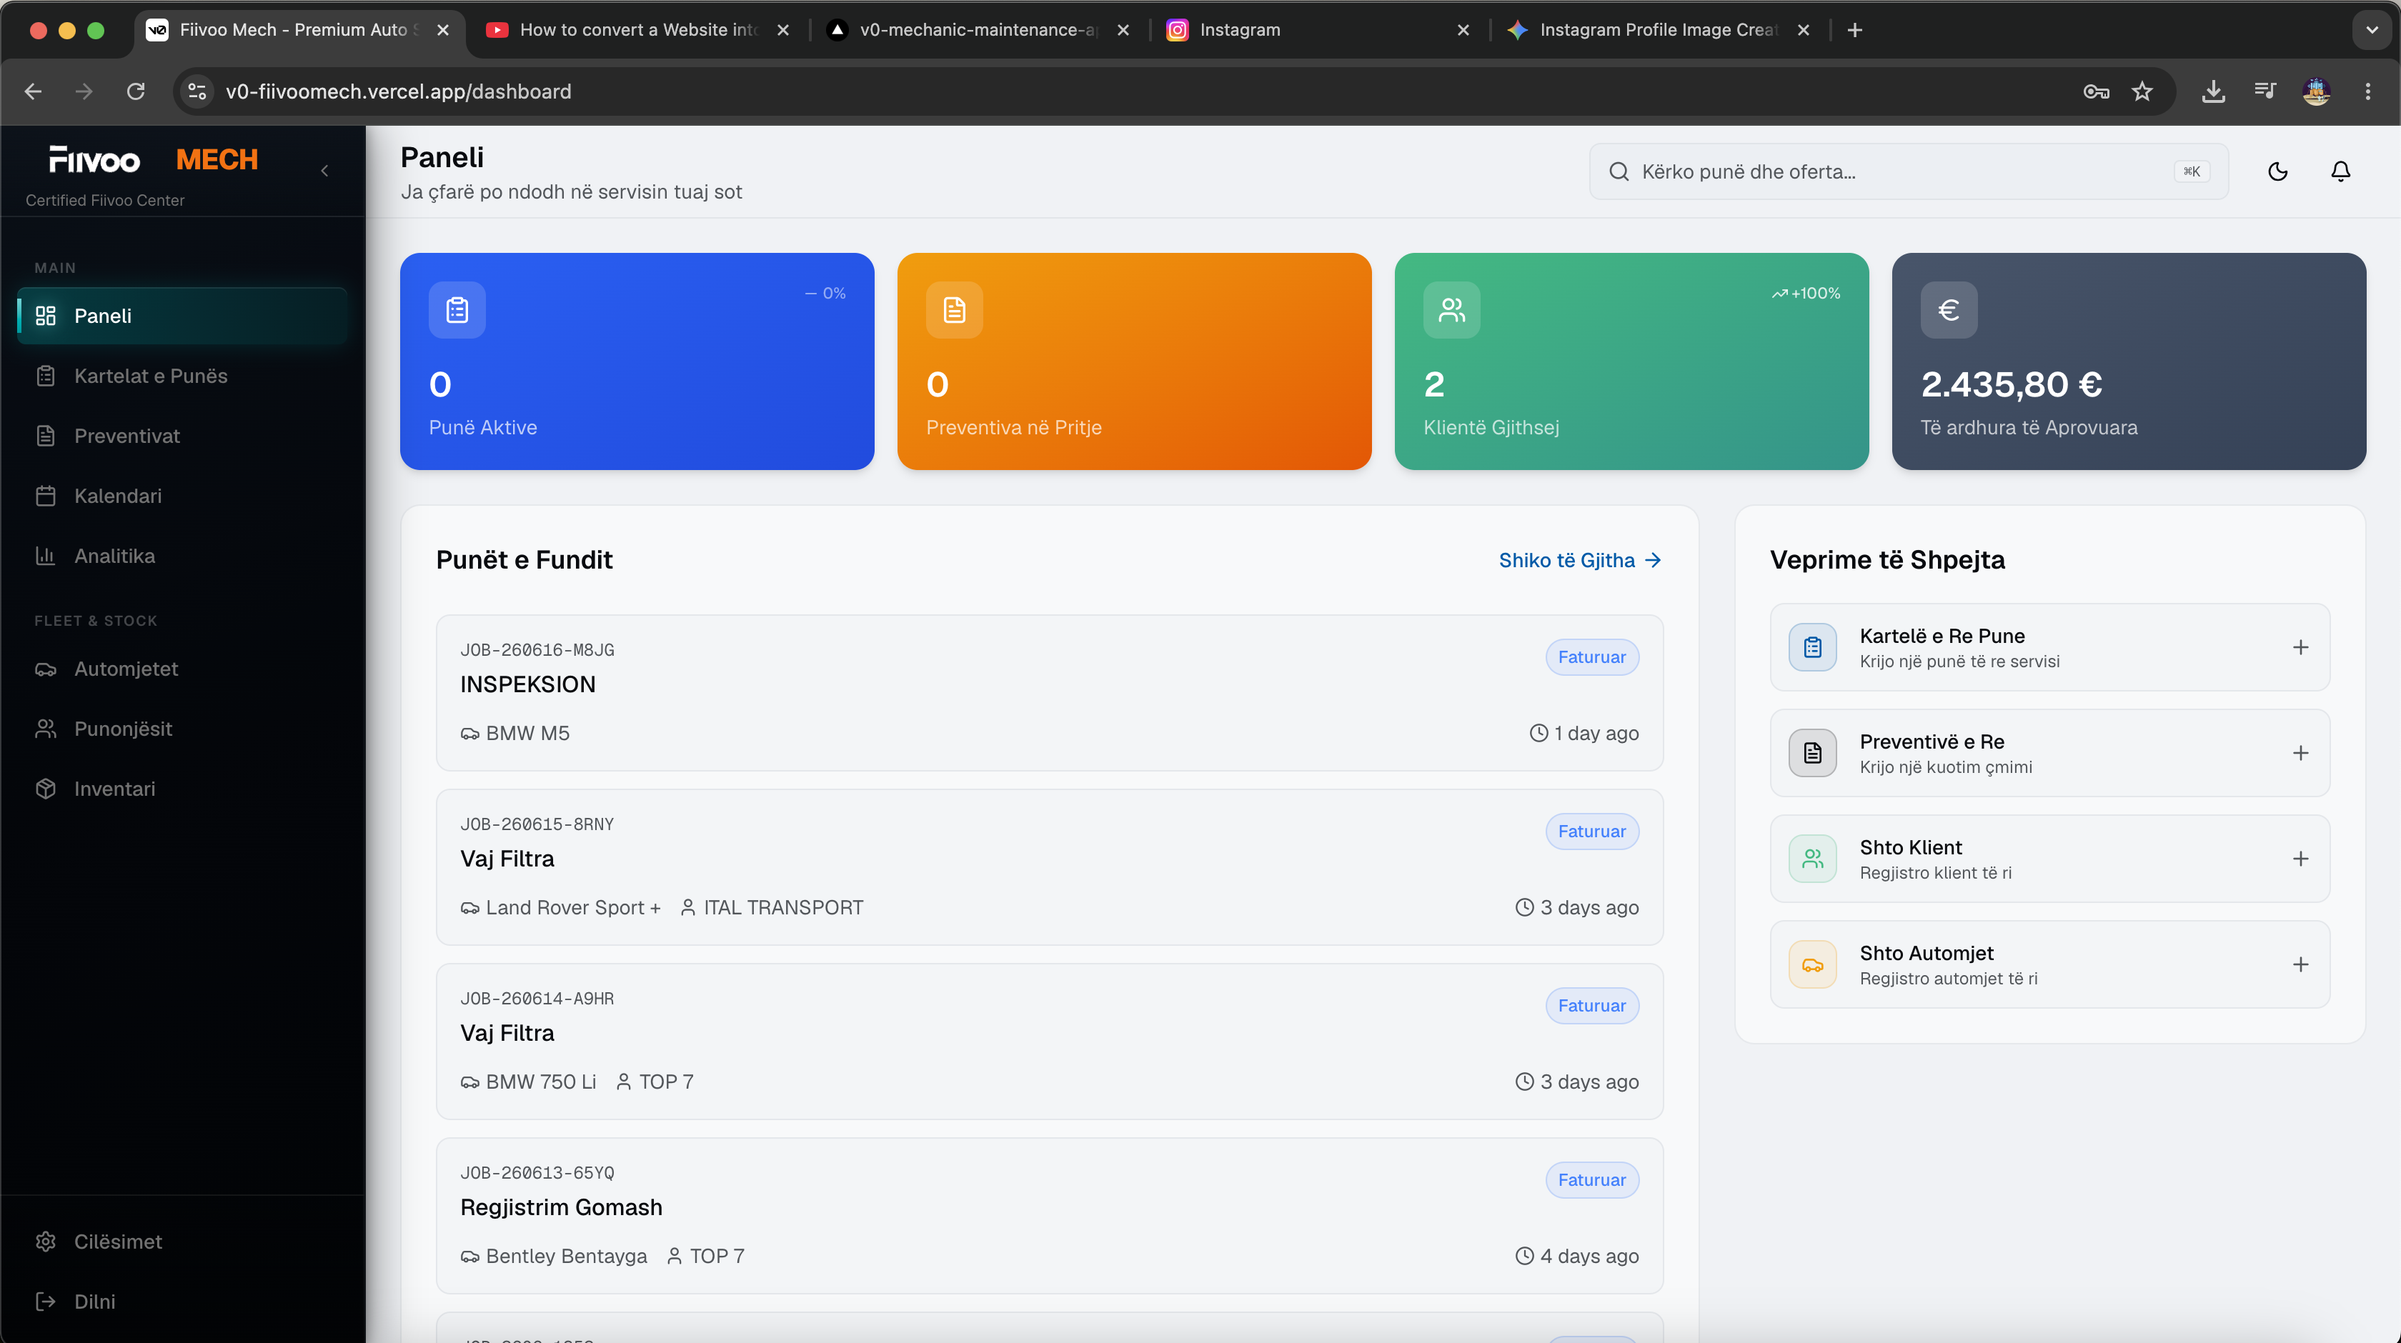
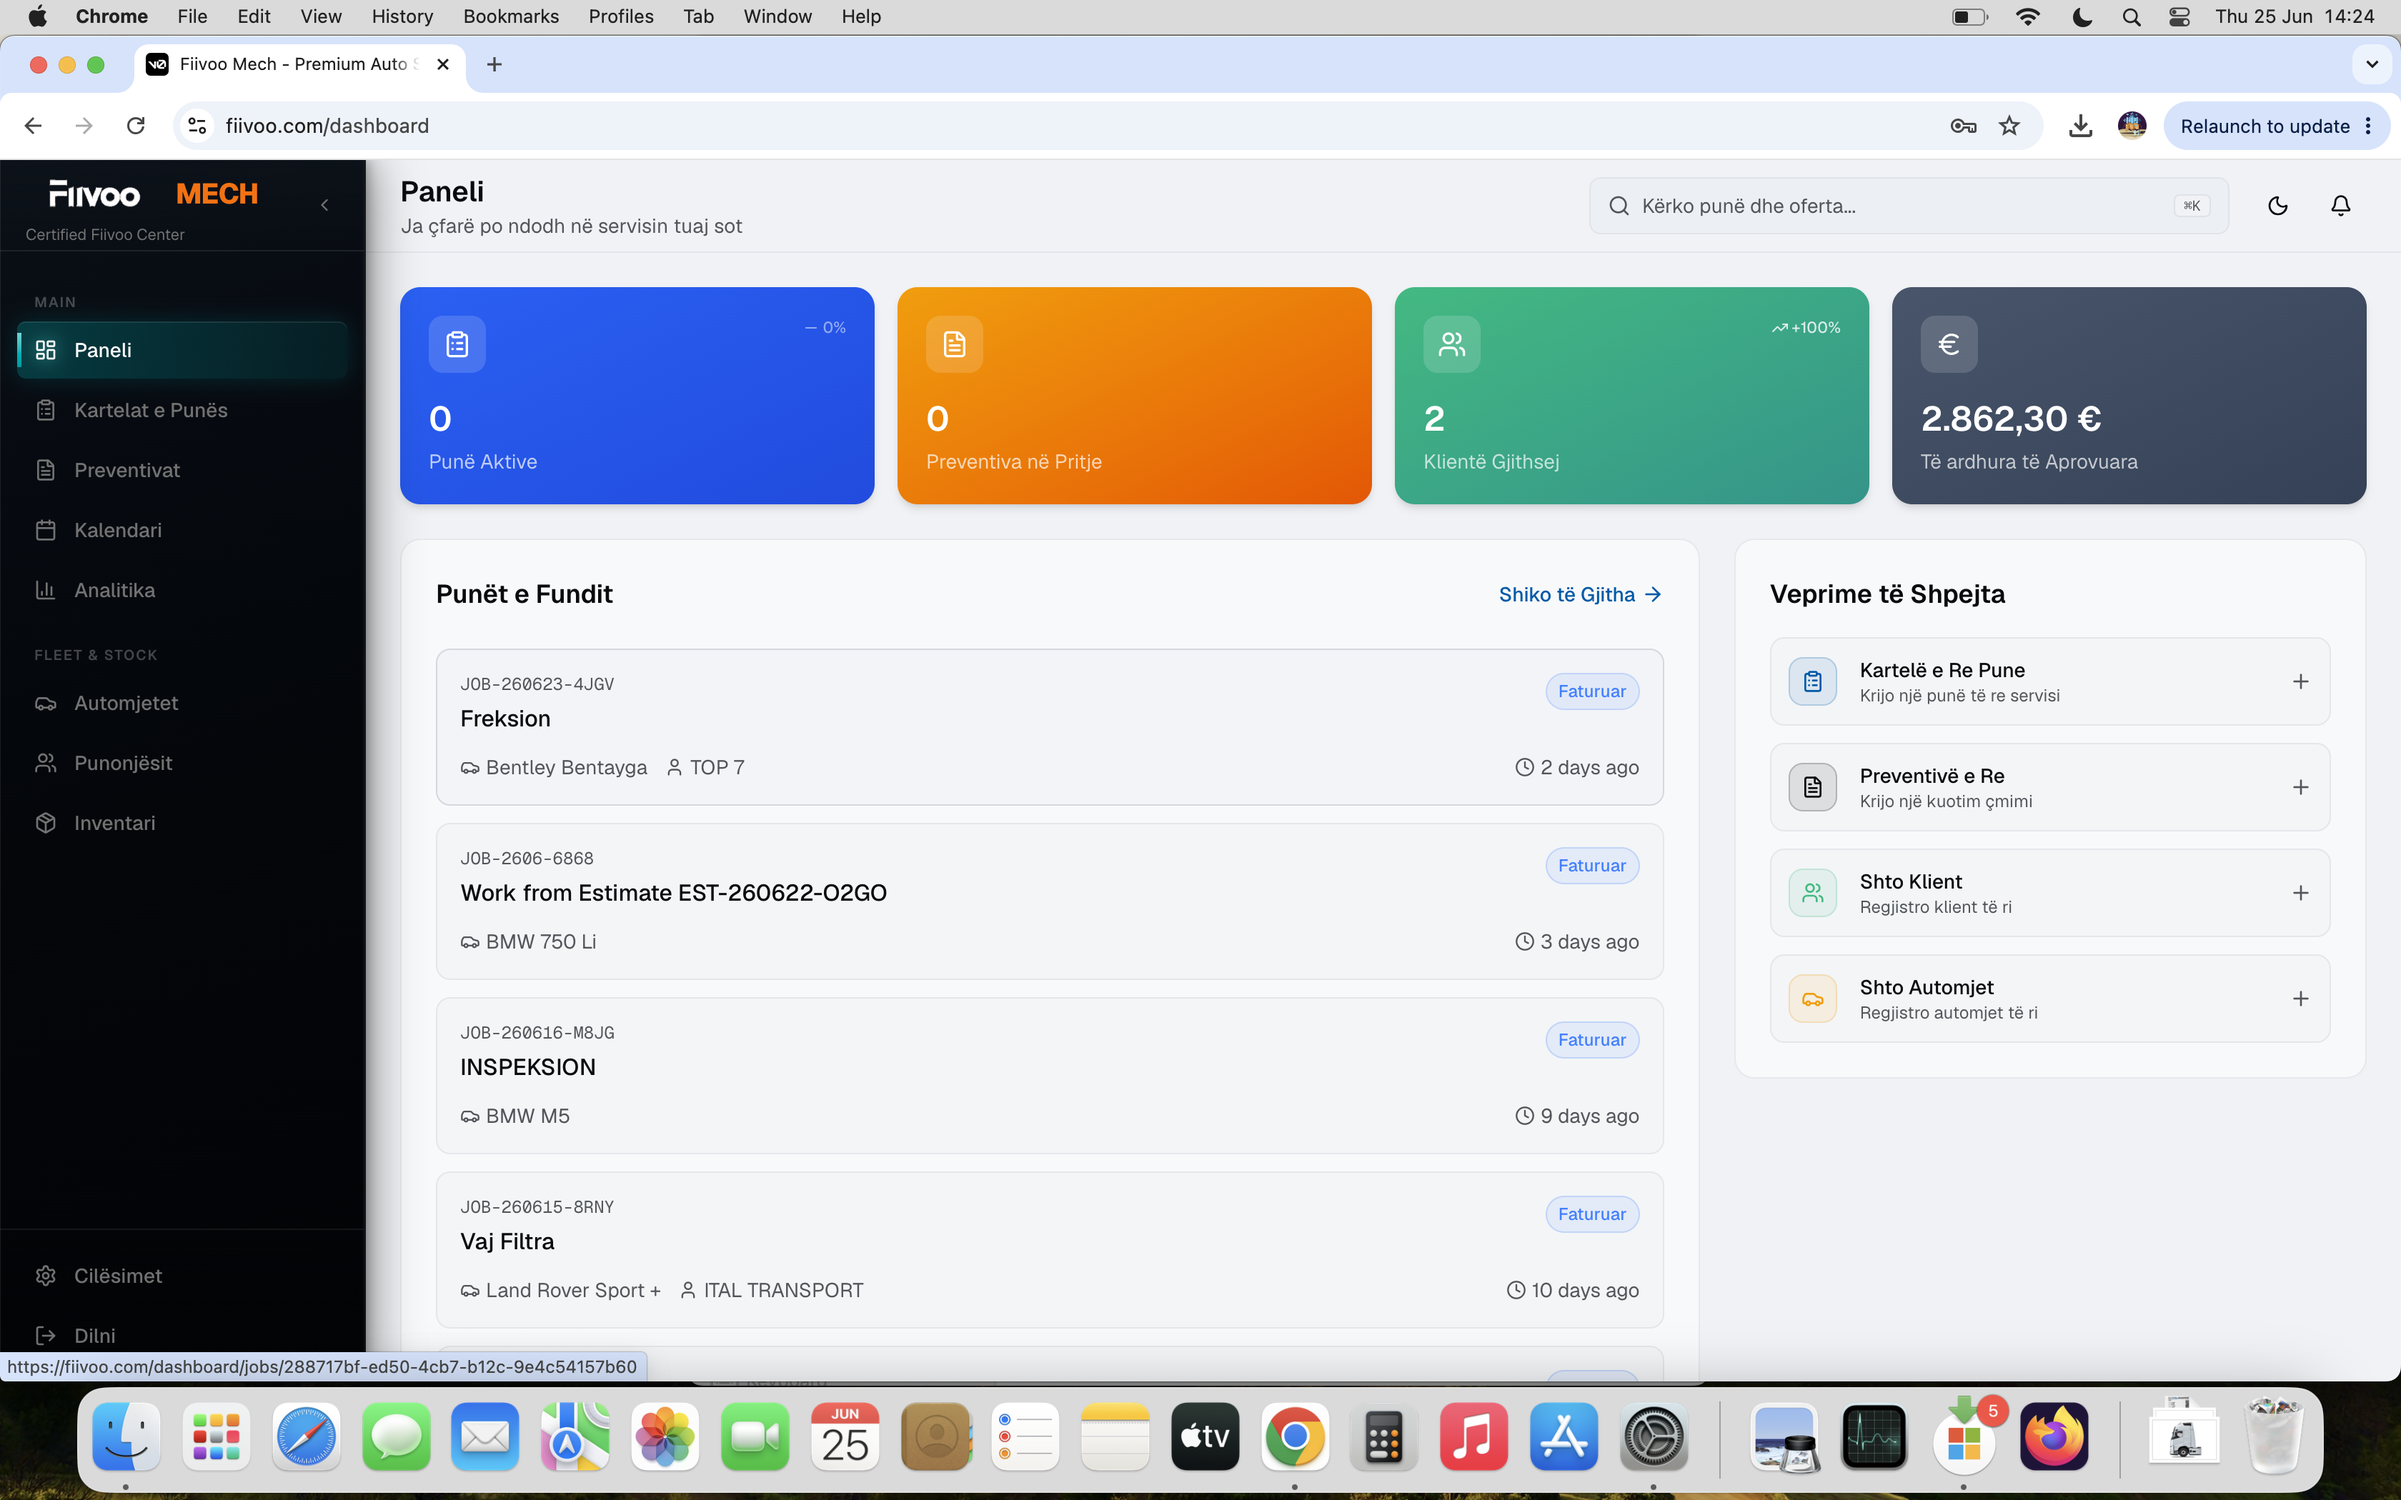
feat: add LandingRecords component and update pricing text color

diff --git a/components/landing/landing-records.tsx b/components/landing/landing-records.tsx
@@ -1,0 +1,90 @@
+import Image from "next/image"
+import { Camera, FileClock, CheckCircle2 } from "lucide-react"
+
+const points = [
+  {
+    icon: Camera,
+    title: "Fotografo në vend",
+    text: "Kap gjendjen e automjetit direkt nga telefoni—goma, dëmtime apo pjesë—pa fletore dhe pa vonesa.",
+  },
+  {
+    icon: FileClock,
+    title: "Historik i plotë",
+    text: "Çdo foto dhe shënim ruhet automatikisht në kartelën e automjetit, gati për t'u parë kurdo.",
+  },
+  {
+    icon: CheckCircle2,
+    title: "Gjithçka nën kontroll",
+    text: "Nga kamioni i madh te makina e klientit—mbaj evidencë të saktë dhe profesionale për çdo punë.",
+  },
+]
+
+export function LandingRecords() {
+  return (
+    <section className="scroll-mt-20 border-t border-[oklch(0.92_0.006_260)] bg-[oklch(0.98_0.003_260)] py-20 sm:py-28">
+      <div className="mx-auto max-w-7xl px-4 sm:px-6 lg:px-8">
+        <div className="mx-auto max-w-2xl text-center">
+          <span className="text-sm font-semibold uppercase tracking-wider text-[oklch(0.55_0.20_264)]">
+            Mbajtja e të dhënave
+          </span>
+          <h2 className="mt-3 text-balance text-3xl font-extrabold tracking-tight text-[oklch(0.22_0.03_262)] sm:text-4xl">
+            Tani është më e lehtë se kurrë të mbash shënime
+          </h2>
+          <p className="mt-4 text-pretty text-base leading-relaxed text-[oklch(0.48_0.02_260)]">
+            Nga automjetet e mëdha komerciale te makinat e përditshme, dokumento çdo detaj me një foto
+            dhe ruaj historikun e plotë të shërbimit—direkt nga vendi i punës.
+          </p>
+        </div>
+
+        {/* Image showcase */}
+        <div className="mt-14 grid items-stretch gap-6 lg:grid-cols-5">
+          {/* Volvo - large */}
+          <div className="relative overflow-hidden rounded-3xl border border-[oklch(0.92_0.006_260)] bg-white shadow-[0_30px_60px_-30px_oklch(0.20_0.03_262/0.25)] lg:col-span-3">
+            <Image
+              src="/landing/volvo-truck.avif"
+              alt="Kamion Volvo FH Aero i regjistruar në Fiivoo"
+              width={1600}
+              height={1000}
+              className="h-full w-full object-cover"
+            />
+            <div className="pointer-events-none absolute inset-x-0 bottom-0 bg-gradient-to-t from-[oklch(0.18_0.04_262/0.85)] to-transparent p-6 pt-16">
+              <p className="text-sm font-semibold text-white">Automjete komerciale</p>
+              <p className="text-xs text-[oklch(0.85_0.02_260)]">Regjistro flotën e plotë me VIN, targë dhe foto.</p>
+            </div>
+          </div>
+
+          {/* iPhone photographing wheel */}
+          <div className="relative overflow-hidden rounded-3xl border border-[oklch(0.92_0.006_260)] bg-white shadow-[0_30px_60px_-30px_oklch(0.20_0.03_262/0.25)] lg:col-span-2">
+            <Image
+              src="/landing/iphone-wheel.png"
+              alt="Fotografimi i gomës së automjetit me telefon për dokumentim"
+              width={1200}
+              height={1200}
+              className="h-full w-full object-cover"
+            />
+            <div className="pointer-events-none absolute inset-x-0 bottom-0 bg-gradient-to-t from-[oklch(0.18_0.04_262/0.85)] to-transparent p-6 pt-16">
+              <p className="text-sm font-semibold text-white">Foto direkt nga vendi</p>
+              <p className="text-xs text-[oklch(0.85_0.02_260)]">Kap gjendjen e gomave dhe dëmtimet në sekonda.</p>
+            </div>
+          </div>
+        </div>
+
+        {/* Supporting points */}
+        <div className="mt-12 grid gap-6 sm:grid-cols-3">
+          {points.map((point) => (
+            <div
+              key={point.title}
+              className="rounded-2xl border border-[oklch(0.92_0.006_260)] bg-white p-6 shadow-[0_10px_30px_-20px_oklch(0.20_0.03_262/0.3)]"
+            >
+              <div className="flex h-10 w-10 items-center justify-center rounded-xl bg-[oklch(0.55_0.20_264)/0.10] text-[oklch(0.50_0.20_264)]">
+                <point.icon className="h-5 w-5" />
+              </div>
+              <h3 className="mt-4 text-base font-bold text-[oklch(0.22_0.03_262)]">{point.title}</h3>
+              <p className="mt-1.5 text-sm leading-relaxed text-[oklch(0.48_0.02_260)]">{point.text}</p>
+            </div>
+          ))}
+        </div>
+      </div>
+    </section>
+  )
+}

diff --git a/components/landing/landing-page.tsx b/components/landing/landing-page.tsx
@@ -3,6 +3,7 @@ import { LandingHero } from "./landing-hero"
 import { LandingStats } from "./landing-stats"
 import { LandingFeatures } from "./landing-features"
 import { LandingProduct } from "./landing-product"
+import { LandingRecords } from "./landing-records"
 import { LandingPricing } from "./landing-pricing"
 import { LandingFaq } from "./landing-faq"
 import { LandingCta } from "./landing-cta"
@@ -17,6 +18,7 @@ export function LandingPage() {
         <LandingStats />
         <LandingFeatures />
         <LandingProduct />
+        <LandingRecords />
         <LandingPricing />
         <LandingFaq />
         <LandingCta />

diff --git a/components/landing/landing-pricing.tsx b/components/landing/landing-pricing.tsx
@@ -45,7 +45,7 @@ export function LandingPricing() {
               </span>
               <div className="flex items-baseline gap-2">
                 <span className="text-5xl font-extrabold tracking-tight text-white">30</span>
-                <span className="text-lg font-medium text-[oklch(0.78_0.02_260)]">ditë</span>
+                <span className="text-2xl font-medium text-[#96beff]">ditë</span>
               </div>
               <p className="text-sm leading-relaxed text-[oklch(0.75_0.02_260)]">
                 Provoje Fiivoo plotësisht falas për 30 ditë. Pa kartë krediti, pa angazhim.

diff --git a/components/landing/landing-stats.tsx b/components/landing/landing-stats.tsx
@@ -1,5 +1,5 @@
 const stats = [
-  { value: "12k+", label: "Kartela pune të procesuara" },
+  { value: "1k+", label: "Kartela pune të procesuara" },
   { value: "98%", label: "Më pak kohë me letra" },
   { value: "4.9/5", label: "Kënaqësia e pronarëve" },
   { value: "24/7", label: "Qasje në cloud" },
